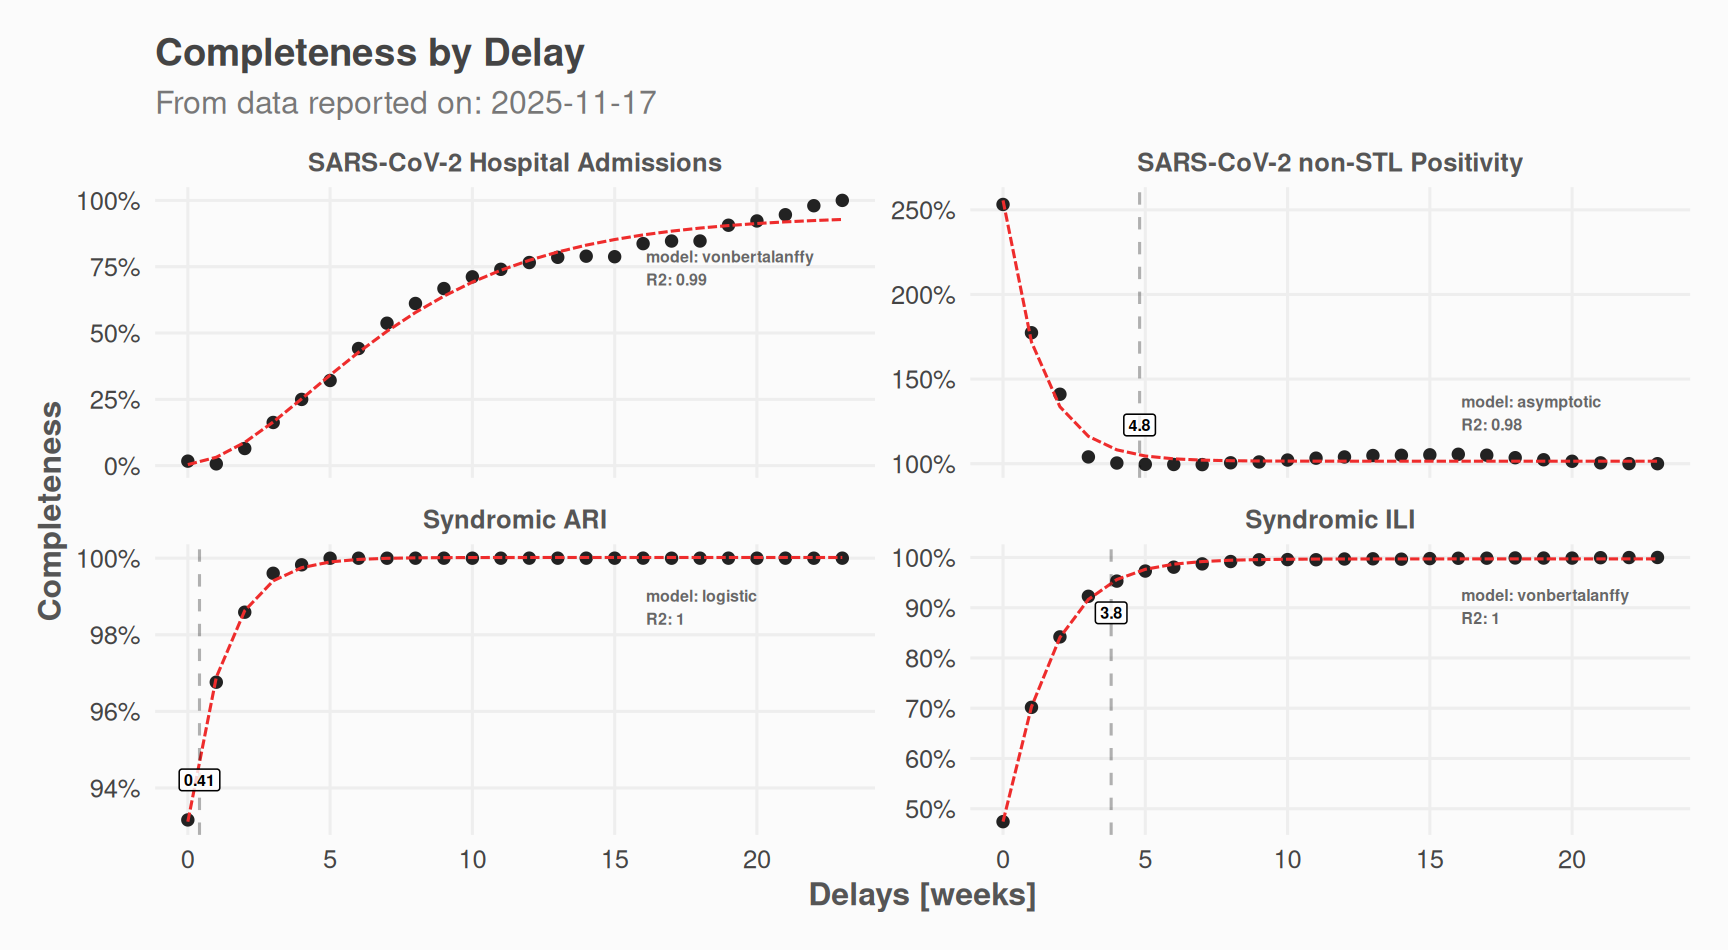
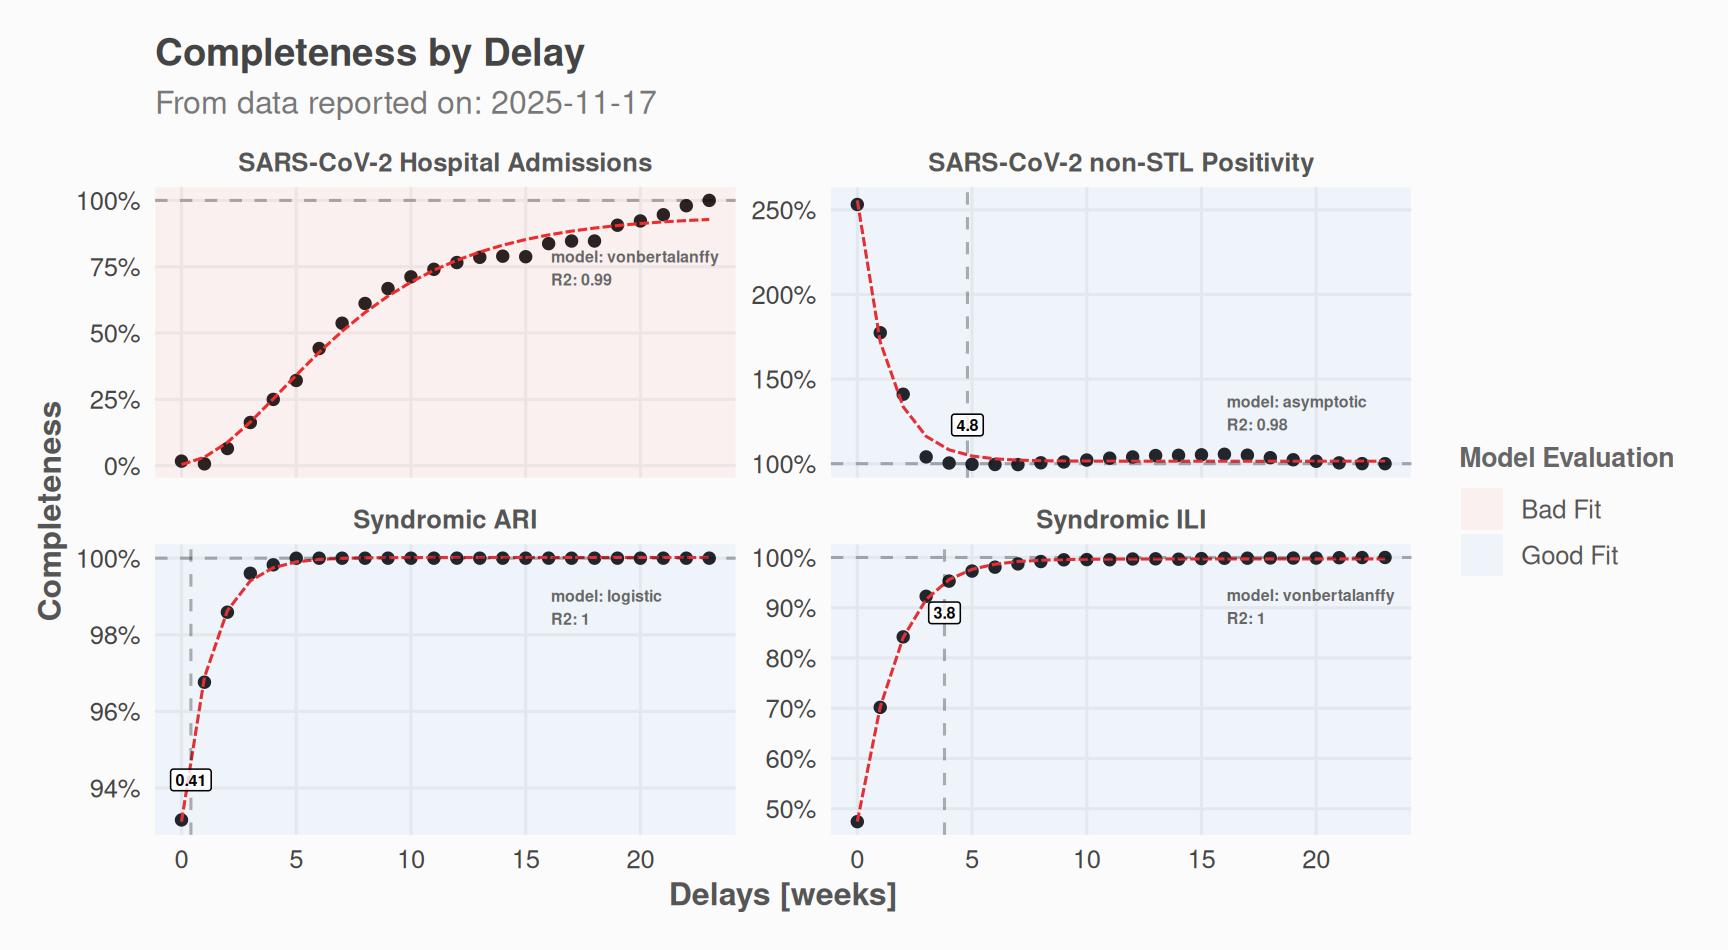
Deploying to gh-pages from @ whocov/nowcastr@6f3e32ffb888910af14f8f2c0a009b26895a6c31 🚀

diff --git a/reference/tbl_models_stats.html b/reference/tbl_models_stats.html
@@ -1,0 +1,108 @@
+<!DOCTYPE html>
+<!-- Generated by pkgdown: do not edit by hand --><html lang="en"><head><meta http-equiv="Content-Type" content="text/html; charset=UTF-8"><meta charset="utf-8"><meta http-equiv="X-UA-Compatible" content="IE=edge"><meta name="viewport" content="width=device-width, initial-scale=1, shrink-to-fit=no"><title>Compute table with models result stats. — tbl_models_stats • nowcastr</title><script src="../lightswitch.js"></script><script src="../deps/jquery-3.6.0/jquery-3.6.0.min.js"></script><meta name="viewport" content="width=device-width, initial-scale=1, shrink-to-fit=no"><link href="../deps/bootstrap-5.3.8/bootstrap.min.css" rel="stylesheet"><script src="../deps/bootstrap-5.3.8/bootstrap.bundle.min.js"></script><link href="../deps/font-awesome-6.5.2/css/all.min.css" rel="stylesheet"><link href="../deps/font-awesome-6.5.2/css/v4-shims.min.css" rel="stylesheet"><script src="../deps/headroom-0.11.0/headroom.min.js"></script><script src="../deps/headroom-0.11.0/jQuery.headroom.min.js"></script><script src="../deps/bootstrap-toc-1.0.1/bootstrap-toc.min.js"></script><script src="../deps/clipboard.js-2.0.11/clipboard.min.js"></script><script src="../deps/search-1.0.0/autocomplete.jquery.min.js"></script><script src="../deps/search-1.0.0/fuse.min.js"></script><script src="../deps/search-1.0.0/mark.min.js"></script><!-- pkgdown --><script src="../pkgdown.js"></script><meta property="og:title" content="Compute table with models result stats. — tbl_models_stats"><meta name="description" content="Summarizes fitted growth models per group, computing R-squared, fit
+evaluation (good/bad), and completeness at start/end of observed data."><meta property="og:description" content="Summarizes fitted growth models per group, computing R-squared, fit
+evaluation (good/bad), and completeness at start/end of observed data."></head><body>
+    <a href="#main" class="visually-hidden-focusable">Skip to contents</a>
+
+
+    <nav class="navbar navbar-expand-lg fixed-top " aria-label="Site navigation"><div class="container">
+
+    <a class="navbar-brand me-2" href="../index.html">nowcastr</a>
+
+    <small class="nav-text text-muted me-auto" data-bs-toggle="tooltip" data-bs-placement="bottom" title="">0.2.1</small>
+
+
+    <button class="navbar-toggler" type="button" data-bs-toggle="collapse" data-bs-target="#navbar" aria-controls="navbar" aria-expanded="false" aria-label="Toggle navigation">
+      <span class="navbar-toggler-icon"></span>
+    </button>
+
+    <div id="navbar" class="collapse navbar-collapse ms-3">
+      <ul class="navbar-nav me-auto"><li class="nav-item"><a class="nav-link" href="../articles/nowcastr.html">Get started</a></li>
+<li class="active nav-item"><a class="nav-link" href="../reference/index.html">Reference</a></li>
+<li class="nav-item dropdown">
+  <button class="nav-link dropdown-toggle" type="button" id="dropdown-articles" data-bs-toggle="dropdown" aria-expanded="false" aria-haspopup="true">Articles</button>
+  <ul class="dropdown-menu" aria-labelledby="dropdown-articles"><li><a class="dropdown-item" href="../articles/nowcastr.html">Getting started</a></li>
+    <li><a class="dropdown-item" href="../articles/eval.html">Evaluate accuracy</a></li>
+  </ul></li>
+<li class="nav-item"><a class="nav-link" href="../news/index.html">Changelog</a></li>
+      </ul><ul class="navbar-nav"><li class="nav-item"><form class="form-inline" role="search">
+ <input class="form-control" type="search" name="search-input" id="search-input" autocomplete="off" aria-label="Search site" placeholder="Search for" data-search-index="../search.json"></form></li>
+<li class="nav-item"><a class="external-link nav-link" href="https://github.com/whocov/nowcastr/" aria-label="GitHub"><span class="fa fab fa-github fa-lg"></span></a></li>
+<li class="nav-item dropdown">
+  <button class="nav-link dropdown-toggle" type="button" id="dropdown-lightswitch" data-bs-toggle="dropdown" aria-expanded="false" aria-haspopup="true" aria-label="Light switch"><span class="fa fa-sun"></span></button>
+  <ul class="dropdown-menu dropdown-menu-end" aria-labelledby="dropdown-lightswitch"><li><button class="dropdown-item" data-bs-theme-value="light"><span class="fa fa-sun"></span> Light</button></li>
+    <li><button class="dropdown-item" data-bs-theme-value="dark"><span class="fa fa-moon"></span> Dark</button></li>
+    <li><button class="dropdown-item" data-bs-theme-value="auto"><span class="fa fa-adjust"></span> Auto</button></li>
+  </ul></li>
+      </ul></div>
+
+
+  </div>
+</nav><div class="container template-reference-topic">
+<div class="row">
+  <main id="main" class="col-md-9"><div class="page-header">
+
+      <h1>Compute table with models result stats.</h1>
+      <small class="dont-index">Source: <a href="https://github.com/whocov/nowcastr/blob/main/R/tbl_models_stats.R" class="external-link"><code>R/tbl_models_stats.R</code></a></small>
+      <div class="d-none name"><code>tbl_models_stats.Rd</code></div>
+    </div>
+
+    <div class="ref-description section level2">
+    <p>Summarizes fitted growth models per group, computing R-squared, fit
+evaluation (good/bad), and completeness at start/end of observed data.</p>
+    </div>
+
+    <div class="section level2">
+    <h2 id="ref-usage">Usage<a class="anchor" aria-label="anchor" href="#ref-usage"></a></h2>
+    <div class="sourceCode"><pre class="sourceCode r"><code><span><span class="fu">tbl_models_stats</span><span class="op">(</span><span class="va">nc_obj</span>, thresholds_r2 <span class="op">=</span> <span class="fl">0.8</span><span class="op">)</span></span></code></pre></div>
+    </div>
+
+    <div class="section level2">
+    <h2 id="arguments">Arguments<a class="anchor" aria-label="anchor" href="#arguments"></a></h2>
+
+
+<dl><dt id="arg-nc-obj">nc_obj<a class="anchor" aria-label="anchor" href="#arg-nc-obj"></a></dt>
+<dd><p>A <code>nowcast_results</code> object.</p></dd>
+
+
+<dt id="arg-thresholds-r-">thresholds_r2<a class="anchor" aria-label="anchor" href="#arg-thresholds-r-"></a></dt>
+<dd><p>Numeric scalar. R-squared threshold above which
+(combined with end completeness near 1) a model is classified <code>"Good Fit"</code>.</p></dd>
+
+</dl></div>
+    <div class="section level2">
+    <h2 id="value">Value<a class="anchor" aria-label="anchor" href="#value"></a></h2>
+    <p>A tibble with one row per fitted model, including columns for
+group variables, <code>R2</code>, <code>RSS</code>, model coefficients (<code>a</code>, <code>b</code>, <code>c</code>),
+completeness at start/end, and <code>eval</code> ("Good Fit"/"Bad Fit"). If
+<code>nc_obj@models</code> has no rows, it is returned unchanged.</p>
+    </div>
+
+    <div class="section level2">
+    <h2 id="ref-examples">Examples<a class="anchor" aria-label="anchor" href="#ref-examples"></a></h2>
+    <div class="sourceCode"><pre class="sourceCode r"><code><span class="r-in"><span><span class="kw">if</span> <span class="op">(</span><span class="cn">FALSE</span><span class="op">)</span> <span class="op">{</span> <span class="co"># \dontrun{</span></span></span>
+<span class="r-in"><span><span class="fu">tbl_models_stats</span><span class="op">(</span><span class="va">nc_obj</span><span class="op">)</span></span></span>
+<span class="r-in"><span><span class="fu">tbl_models_stats</span><span class="op">(</span><span class="va">nc_obj</span>, thresholds_r2 <span class="op">=</span> <span class="fl">0.9</span><span class="op">)</span></span></span>
+<span class="r-in"><span><span class="op">}</span> <span class="co"># }</span></span></span>
+</code></pre></div>
+    </div>
+  </main><aside class="col-md-3"><nav id="toc" aria-label="Table of contents"><h2>On this page</h2>
+    </nav></aside></div>
+
+
+    <footer><div class="pkgdown-footer-left">
+  <p>Developed by Mathias Leroy, Finlay Campbell.</p>
+</div>
+
+<div class="pkgdown-footer-right">
+  <p>Site built with <a href="https://pkgdown.r-lib.org/" class="external-link">pkgdown</a> 2.2.0.</p>
+</div>
+
+    </footer></div>
+
+
+
+
+
+  </body></html>
+

diff --git a/articles/eval.html b/articles/eval.html
@@ -7,8 +7,8 @@
 <meta name="viewport" content="width=device-width, initial-scale=1, shrink-to-fit=no">
 <title>Evaluate accuracy • nowcastr</title>
 <script src="../lightswitch.js"></script><script src="../deps/jquery-3.6.0/jquery-3.6.0.min.js"></script><meta name="viewport" content="width=device-width, initial-scale=1, shrink-to-fit=no">
-<link href="../deps/bootstrap-5.3.1/bootstrap.min.css" rel="stylesheet">
-<script src="../deps/bootstrap-5.3.1/bootstrap.bundle.min.js"></script><link href="../deps/font-awesome-6.5.2/css/all.min.css" rel="stylesheet">
+<link href="../deps/bootstrap-5.3.8/bootstrap.min.css" rel="stylesheet">
+<script src="../deps/bootstrap-5.3.8/bootstrap.bundle.min.js"></script><link href="../deps/font-awesome-6.5.2/css/all.min.css" rel="stylesheet">
 <link href="../deps/font-awesome-6.5.2/css/v4-shims.min.css" rel="stylesheet">
 <script src="../deps/headroom-0.11.0/headroom.min.js"></script><script src="../deps/headroom-0.11.0/jQuery.headroom.min.js"></script><script src="../deps/bootstrap-toc-1.0.1/bootstrap-toc.min.js"></script><script src="../deps/clipboard.js-2.0.11/clipboard.min.js"></script><script src="../deps/search-1.0.0/autocomplete.jquery.min.js"></script><script src="../deps/search-1.0.0/fuse.min.js"></script><script src="../deps/search-1.0.0/mark.min.js"></script><script src="eval_files/libs/quarto-html/popper.min.js"></script><script src="eval_files/libs/quarto-html/tippy.umd.min.js"></script><link href="eval_files/libs/quarto-html/tippy.css" rel="stylesheet">
 <link href="eval_files/libs/quarto-html/light-border.css" rel="stylesheet">
@@ -22,7 +22,7 @@
 
     <a class="navbar-brand me-2" href="../index.html">nowcastr</a>
 
-    <small class="nav-text text-muted me-auto" data-bs-toggle="tooltip" data-bs-placement="bottom" title="">0.2.1.9000</small>
+    <small class="nav-text text-muted me-auto" data-bs-toggle="tooltip" data-bs-placement="bottom" title="">0.2.1</small>
 
 
     <button class="navbar-toggler" type="button" data-bs-toggle="collapse" data-bs-target="#navbar" aria-controls="navbar" aria-expanded="false" aria-label="Toggle navigation">
@@ -197,10 +197,10 @@
 </div>
 </div>
 </div>
-</section></section><section class="level2"><h2 id="evaluate-scenarios">Evaluate Scenarios<a class="anchor" aria-label="anchor" href="#evaluate-scenarios"></a>
+</section></section><section class="level2"><h2 id="examples-evaluate-scenarios">Examples: Evaluate Scenarios<a class="anchor" aria-label="anchor" href="#examples-evaluate-scenarios"></a>
 </h2>
-</section><section class="level2"><h2 id="vary-fill_future_reported_values">Vary fill_future_reported_values<a class="anchor" aria-label="anchor" href="#vary-fill_future_reported_values"></a>
-</h2>
+<section class="level3"><h3 id="example-1-vary-fill_future_reported_values">Example 1: Vary fill_future_reported_values<a class="anchor" aria-label="anchor" href="#example-1-vary-fill_future_reported_values"></a>
+</h3>
 <p>We can test if accuracy of nowcasts improve with or without <code><a href="../reference/fill_future_reported_values.html">fill_future_reported_values()</a></code>:</p>
 <div class="cell">
 <div class="sourceCode cell-code" id="cb6"><pre class="downlit sourceCode r">
@@ -282,7 +282,7 @@
 </div>
 </div>
 </div>
-<section class="level3"><h3 id="vary-max_reportunits">Vary max_reportunits<a class="anchor" aria-label="anchor" href="#vary-max_reportunits"></a>
+</section><section class="level3"><h3 id="example-2-vary-max_reportunits">Example 2: Vary max_reportunits<a class="anchor" aria-label="anchor" href="#example-2-vary-max_reportunits"></a>
 </h3>
 <div class="cell">
 <div class="sourceCode cell-code" id="cb9"><pre class="downlit sourceCode r">

diff --git a/reference/index.html b/reference/index.html
@@ -1,5 +1,5 @@
 <!DOCTYPE html>
-<!-- Generated by pkgdown: do not edit by hand --><html lang="en"><head><meta http-equiv="Content-Type" content="text/html; charset=UTF-8"><meta charset="utf-8"><meta http-equiv="X-UA-Compatible" content="IE=edge"><meta name="viewport" content="width=device-width, initial-scale=1, shrink-to-fit=no"><title>Package index • nowcastr</title><script src="../lightswitch.js"></script><script src="../deps/jquery-3.6.0/jquery-3.6.0.min.js"></script><meta name="viewport" content="width=device-width, initial-scale=1, shrink-to-fit=no"><link href="../deps/bootstrap-5.3.1/bootstrap.min.css" rel="stylesheet"><script src="../deps/bootstrap-5.3.1/bootstrap.bundle.min.js"></script><link href="../deps/font-awesome-6.5.2/css/all.min.css" rel="stylesheet"><link href="../deps/font-awesome-6.5.2/css/v4-shims.min.css" rel="stylesheet"><script src="../deps/headroom-0.11.0/headroom.min.js"></script><script src="../deps/headroom-0.11.0/jQuery.headroom.min.js"></script><script src="../deps/bootstrap-toc-1.0.1/bootstrap-toc.min.js"></script><script src="../deps/clipboard.js-2.0.11/clipboard.min.js"></script><script src="../deps/search-1.0.0/autocomplete.jquery.min.js"></script><script src="../deps/search-1.0.0/fuse.min.js"></script><script src="../deps/search-1.0.0/mark.min.js"></script><!-- pkgdown --><script src="../pkgdown.js"></script><meta property="og:title" content="Package index"></head><body>
+<!-- Generated by pkgdown: do not edit by hand --><html lang="en"><head><meta http-equiv="Content-Type" content="text/html; charset=UTF-8"><meta charset="utf-8"><meta http-equiv="X-UA-Compatible" content="IE=edge"><meta name="viewport" content="width=device-width, initial-scale=1, shrink-to-fit=no"><title>Package index • nowcastr</title><script src="../lightswitch.js"></script><script src="../deps/jquery-3.6.0/jquery-3.6.0.min.js"></script><meta name="viewport" content="width=device-width, initial-scale=1, shrink-to-fit=no"><link href="../deps/bootstrap-5.3.8/bootstrap.min.css" rel="stylesheet"><script src="../deps/bootstrap-5.3.8/bootstrap.bundle.min.js"></script><link href="../deps/font-awesome-6.5.2/css/all.min.css" rel="stylesheet"><link href="../deps/font-awesome-6.5.2/css/v4-shims.min.css" rel="stylesheet"><script src="../deps/headroom-0.11.0/headroom.min.js"></script><script src="../deps/headroom-0.11.0/jQuery.headroom.min.js"></script><script src="../deps/bootstrap-toc-1.0.1/bootstrap-toc.min.js"></script><script src="../deps/clipboard.js-2.0.11/clipboard.min.js"></script><script src="../deps/search-1.0.0/autocomplete.jquery.min.js"></script><script src="../deps/search-1.0.0/fuse.min.js"></script><script src="../deps/search-1.0.0/mark.min.js"></script><!-- pkgdown --><script src="../pkgdown.js"></script><meta property="og:title" content="Package index"></head><body>
     <a href="#main" class="visually-hidden-focusable">Skip to contents</a>
 
 
@@ -7,7 +7,7 @@
 
     <a class="navbar-brand me-2" href="../index.html">nowcastr</a>
 
-    <small class="nav-text text-muted me-auto" data-bs-toggle="tooltip" data-bs-placement="bottom" title="">0.2.1.9000</small>
+    <small class="nav-text text-muted me-auto" data-bs-toggle="tooltip" data-bs-placement="bottom" title="">0.2.1</small>
 
 
     <button class="navbar-toggler" type="button" data-bs-toggle="collapse" data-bs-target="#navbar" aria-controls="navbar" aria-expanded="false" aria-label="Toggle navigation">
@@ -110,6 +110,13 @@
 
         </dt>
         <dd>Nowcastr ggplot2 Theme</dd>
+
+        <dt>
+
+          <code><a href="tbl_models_stats.html">tbl_models_stats()</a></code>
+
+        </dt>
+        <dd>Compute table with models result stats.</dd>
       </dl></div><div class="section level2">
       <h2 id="evaluation">Evaluation<a class="anchor" aria-label="anchor" href="#evaluation"></a></h2>
 

diff --git a/reference/nowcast_eval.html b/reference/nowcast_eval.html
@@ -1,5 +1,5 @@
 <!DOCTYPE html>
-<!-- Generated by pkgdown: do not edit by hand --><html lang="en"><head><meta http-equiv="Content-Type" content="text/html; charset=UTF-8"><meta charset="utf-8"><meta http-equiv="X-UA-Compatible" content="IE=edge"><meta name="viewport" content="width=device-width, initial-scale=1, shrink-to-fit=no"><title>Evaluate Nowcasting Performance — nowcast_eval • nowcastr</title><script src="../lightswitch.js"></script><script src="../deps/jquery-3.6.0/jquery-3.6.0.min.js"></script><meta name="viewport" content="width=device-width, initial-scale=1, shrink-to-fit=no"><link href="../deps/bootstrap-5.3.1/bootstrap.min.css" rel="stylesheet"><script src="../deps/bootstrap-5.3.1/bootstrap.bundle.min.js"></script><link href="../deps/font-awesome-6.5.2/css/all.min.css" rel="stylesheet"><link href="../deps/font-awesome-6.5.2/css/v4-shims.min.css" rel="stylesheet"><script src="../deps/headroom-0.11.0/headroom.min.js"></script><script src="../deps/headroom-0.11.0/jQuery.headroom.min.js"></script><script src="../deps/bootstrap-toc-1.0.1/bootstrap-toc.min.js"></script><script src="../deps/clipboard.js-2.0.11/clipboard.min.js"></script><script src="../deps/search-1.0.0/autocomplete.jquery.min.js"></script><script src="../deps/search-1.0.0/fuse.min.js"></script><script src="../deps/search-1.0.0/mark.min.js"></script><!-- pkgdown --><script src="../pkgdown.js"></script><meta property="og:title" content="Evaluate Nowcasting Performance — nowcast_eval"><meta name="description" content="Evaluates the historical performance of nowcast_cl() by repeatedly
+<!-- Generated by pkgdown: do not edit by hand --><html lang="en"><head><meta http-equiv="Content-Type" content="text/html; charset=UTF-8"><meta charset="utf-8"><meta http-equiv="X-UA-Compatible" content="IE=edge"><meta name="viewport" content="width=device-width, initial-scale=1, shrink-to-fit=no"><title>Evaluate Nowcasting Performance — nowcast_eval • nowcastr</title><script src="../lightswitch.js"></script><script src="../deps/jquery-3.6.0/jquery-3.6.0.min.js"></script><meta name="viewport" content="width=device-width, initial-scale=1, shrink-to-fit=no"><link href="../deps/bootstrap-5.3.8/bootstrap.min.css" rel="stylesheet"><script src="../deps/bootstrap-5.3.8/bootstrap.bundle.min.js"></script><link href="../deps/font-awesome-6.5.2/css/all.min.css" rel="stylesheet"><link href="../deps/font-awesome-6.5.2/css/v4-shims.min.css" rel="stylesheet"><script src="../deps/headroom-0.11.0/headroom.min.js"></script><script src="../deps/headroom-0.11.0/jQuery.headroom.min.js"></script><script src="../deps/bootstrap-toc-1.0.1/bootstrap-toc.min.js"></script><script src="../deps/clipboard.js-2.0.11/clipboard.min.js"></script><script src="../deps/search-1.0.0/autocomplete.jquery.min.js"></script><script src="../deps/search-1.0.0/fuse.min.js"></script><script src="../deps/search-1.0.0/mark.min.js"></script><!-- pkgdown --><script src="../pkgdown.js"></script><meta property="og:title" content="Evaluate Nowcasting Performance — nowcast_eval"><meta name="description" content="Evaluates the historical performance of nowcast_cl() by repeatedly
 peeling back the most recent reporting period and comparing predictions
 against the last reported values (highest col_date_reporting
 per occurrence date)."><meta property="og:description" content="Evaluates the historical performance of nowcast_cl() by repeatedly
@@ -13,7 +13,7 @@ per occurrence date)."></head><body>
 
     <a class="navbar-brand me-2" href="../index.html">nowcastr</a>
 
-    <small class="nav-text text-muted me-auto" data-bs-toggle="tooltip" data-bs-placement="bottom" title="">0.2.1.9000</small>
+    <small class="nav-text text-muted me-auto" data-bs-toggle="tooltip" data-bs-placement="bottom" title="">0.2.1</small>
 
 
     <button class="navbar-toggler" type="button" data-bs-toggle="collapse" data-bs-target="#navbar" aria-controls="navbar" aria-expanded="false" aria-label="Toggle navigation">
@@ -78,7 +78,8 @@ per occurrence date).</p>
 <span>  model_names <span class="op">=</span> <span class="fu"><a href="https://rdrr.io/r/base/c.html" class="external-link">c</a></span><span class="op">(</span><span class="st">"monomolecular"</span>, <span class="st">"vonbertalanffy"</span>, <span class="st">"logistic"</span>, <span class="st">"gompertz"</span>,</span>
 <span>    <span class="st">"asymptotic"</span>, <span class="st">"linear"</span><span class="op">)</span>,</span>
 <span>  do_use_modelled_completeness <span class="op">=</span> <span class="cn">TRUE</span>,</span>
-<span>  rss_threshold <span class="op">=</span> <span class="fl">0.01</span></span>
+<span>  rss_threshold <span class="op">=</span> <span class="fl">0.01</span>,</span>
+<span>  show_cli_progress_bar <span class="op">=</span> <span class="cn">FALSE</span></span>
 <span><span class="op">)</span></span></code></pre></div>
     </div>
 
@@ -161,6 +162,10 @@ Boolean or NULL (for auto selective).  (unused if do_model_fitting=FALSE)</p></d
 <dd><p>Minimum RSS threshold to use model-fitted values.
 Only used if do_use_modelled_completeness is NULL.
 If the RSS of the fit is higher than this then observed completeness is used for nowcasting.</p></dd>
+
+
+<dt id="arg-show-cli-progress-bar">show_cli_progress_bar<a class="anchor" aria-label="anchor" href="#arg-show-cli-progress-bar"></a></dt>
+<dd><p>Logical. Should a progress bar be shown? (using cli package)</p></dd>
 
 </dl></div>
     <div class="section level2">

diff --git a/authors.html b/authors.html
@@ -1,5 +1,5 @@
 <!DOCTYPE html>
-<!-- Generated by pkgdown: do not edit by hand --><html lang="en"><head><meta http-equiv="Content-Type" content="text/html; charset=UTF-8"><meta charset="utf-8"><meta http-equiv="X-UA-Compatible" content="IE=edge"><meta name="viewport" content="width=device-width, initial-scale=1, shrink-to-fit=no"><title>Authors and Citation • nowcastr</title><script src="lightswitch.js"></script><script src="deps/jquery-3.6.0/jquery-3.6.0.min.js"></script><meta name="viewport" content="width=device-width, initial-scale=1, shrink-to-fit=no"><link href="deps/bootstrap-5.3.1/bootstrap.min.css" rel="stylesheet"><script src="deps/bootstrap-5.3.1/bootstrap.bundle.min.js"></script><link href="deps/font-awesome-6.5.2/css/all.min.css" rel="stylesheet"><link href="deps/font-awesome-6.5.2/css/v4-shims.min.css" rel="stylesheet"><script src="deps/headroom-0.11.0/headroom.min.js"></script><script src="deps/headroom-0.11.0/jQuery.headroom.min.js"></script><script src="deps/bootstrap-toc-1.0.1/bootstrap-toc.min.js"></script><script src="deps/clipboard.js-2.0.11/clipboard.min.js"></script><script src="deps/search-1.0.0/autocomplete.jquery.min.js"></script><script src="deps/search-1.0.0/fuse.min.js"></script><script src="deps/search-1.0.0/mark.min.js"></script><!-- pkgdown --><script src="pkgdown.js"></script><meta property="og:title" content="Authors and Citation"></head><body>
+<!-- Generated by pkgdown: do not edit by hand --><html lang="en"><head><meta http-equiv="Content-Type" content="text/html; charset=UTF-8"><meta charset="utf-8"><meta http-equiv="X-UA-Compatible" content="IE=edge"><meta name="viewport" content="width=device-width, initial-scale=1, shrink-to-fit=no"><title>Authors and Citation • nowcastr</title><script src="lightswitch.js"></script><script src="deps/jquery-3.6.0/jquery-3.6.0.min.js"></script><meta name="viewport" content="width=device-width, initial-scale=1, shrink-to-fit=no"><link href="deps/bootstrap-5.3.8/bootstrap.min.css" rel="stylesheet"><script src="deps/bootstrap-5.3.8/bootstrap.bundle.min.js"></script><link href="deps/font-awesome-6.5.2/css/all.min.css" rel="stylesheet"><link href="deps/font-awesome-6.5.2/css/v4-shims.min.css" rel="stylesheet"><script src="deps/headroom-0.11.0/headroom.min.js"></script><script src="deps/headroom-0.11.0/jQuery.headroom.min.js"></script><script src="deps/bootstrap-toc-1.0.1/bootstrap-toc.min.js"></script><script src="deps/clipboard.js-2.0.11/clipboard.min.js"></script><script src="deps/search-1.0.0/autocomplete.jquery.min.js"></script><script src="deps/search-1.0.0/fuse.min.js"></script><script src="deps/search-1.0.0/mark.min.js"></script><!-- pkgdown --><script src="pkgdown.js"></script><meta property="og:title" content="Authors and Citation"></head><body>
     <a href="#main" class="visually-hidden-focusable">Skip to contents</a>
 
 
@@ -7,7 +7,7 @@
 
     <a class="navbar-brand me-2" href="index.html">nowcastr</a>
 
-    <small class="nav-text text-muted me-auto" data-bs-toggle="tooltip" data-bs-placement="bottom" title="">0.2.1.9000</small>
+    <small class="nav-text text-muted me-auto" data-bs-toggle="tooltip" data-bs-placement="bottom" title="">0.2.1</small>
 
 
     <button class="navbar-toggler" type="button" data-bs-toggle="collapse" data-bs-target="#navbar" aria-controls="navbar" aria-expanded="false" aria-label="Toggle navigation">
@@ -62,13 +62,13 @@
 
       <p>Leroy M, Campbell F (2026).
 <em>nowcastr: Nowcasting with Chain-Ladder Method</em>.
-R package version 0.2.1.9000, <a href="https://github.com/whocov/nowcastr" class="external-link">https://github.com/whocov/nowcastr</a>.
+R package version 0.2.1, <a href="https://github.com/whocov/nowcastr" class="external-link">https://github.com/whocov/nowcastr</a>.
 </p>
       <pre>@Manual{,
   title = {nowcastr: Nowcasting with Chain-Ladder Method},
   author = {Mathias Leroy and Finlay Campbell},
   year = {2026},
-  note = {R package version 0.2.1.9000},
+  note = {R package version 0.2.1},
   url = {https://github.com/whocov/nowcastr},
 }</pre>
     </div>

diff --git a/404.html b/404.html
@@ -7,8 +7,8 @@
 <meta name="viewport" content="width=device-width, initial-scale=1, shrink-to-fit=no">
 <title>Page not found (404) • nowcastr</title>
 <script src="https://whocov.github.io/nowcastr/lightswitch.js"></script><script src="https://whocov.github.io/nowcastr/deps/jquery-3.6.0/jquery-3.6.0.min.js"></script><meta name="viewport" content="width=device-width, initial-scale=1, shrink-to-fit=no">
-<link href="https://whocov.github.io/nowcastr/deps/bootstrap-5.3.1/bootstrap.min.css" rel="stylesheet">
-<script src="https://whocov.github.io/nowcastr/deps/bootstrap-5.3.1/bootstrap.bundle.min.js"></script><link href="https://whocov.github.io/nowcastr/deps/font-awesome-6.5.2/css/all.min.css" rel="stylesheet">
+<link href="https://whocov.github.io/nowcastr/deps/bootstrap-5.3.8/bootstrap.min.css" rel="stylesheet">
+<script src="https://whocov.github.io/nowcastr/deps/bootstrap-5.3.8/bootstrap.bundle.min.js"></script><link href="https://whocov.github.io/nowcastr/deps/font-awesome-6.5.2/css/all.min.css" rel="stylesheet">
 <link href="https://whocov.github.io/nowcastr/deps/font-awesome-6.5.2/css/v4-shims.min.css" rel="stylesheet">
 <script src="https://whocov.github.io/nowcastr/deps/headroom-0.11.0/headroom.min.js"></script><script src="https://whocov.github.io/nowcastr/deps/headroom-0.11.0/jQuery.headroom.min.js"></script><script src="https://whocov.github.io/nowcastr/deps/bootstrap-toc-1.0.1/bootstrap-toc.min.js"></script><script src="https://whocov.github.io/nowcastr/deps/clipboard.js-2.0.11/clipboard.min.js"></script><script src="https://whocov.github.io/nowcastr/deps/search-1.0.0/autocomplete.jquery.min.js"></script><script src="https://whocov.github.io/nowcastr/deps/search-1.0.0/fuse.min.js"></script><script src="https://whocov.github.io/nowcastr/deps/search-1.0.0/mark.min.js"></script><!-- pkgdown --><script src="https://whocov.github.io/nowcastr/pkgdown.js"></script><meta property="og:title" content="Page not found (404)">
 </head>
@@ -20,7 +20,7 @@
 
     <a class="navbar-brand me-2" href="https://whocov.github.io/nowcastr/index.html">nowcastr</a>
 
-    <small class="nav-text text-muted me-auto" data-bs-toggle="tooltip" data-bs-placement="bottom" title="">0.2.1.9000</small>
+    <small class="nav-text text-muted me-auto" data-bs-toggle="tooltip" data-bs-placement="bottom" title="">0.2.1</small>
 
 
     <button class="navbar-toggler" type="button" data-bs-toggle="collapse" data-bs-target="#navbar" aria-controls="navbar" aria-expanded="false" aria-label="Toggle navigation">

diff --git a/articles/nowcastr.html b/articles/nowcastr.html
@@ -7,8 +7,8 @@
 <meta name="viewport" content="width=device-width, initial-scale=1, shrink-to-fit=no">
 <title>Getting started • nowcastr</title>
 <script src="../lightswitch.js"></script><script src="../deps/jquery-3.6.0/jquery-3.6.0.min.js"></script><meta name="viewport" content="width=device-width, initial-scale=1, shrink-to-fit=no">
-<link href="../deps/bootstrap-5.3.1/bootstrap.min.css" rel="stylesheet">
-<script src="../deps/bootstrap-5.3.1/bootstrap.bundle.min.js"></script><link href="../deps/font-awesome-6.5.2/css/all.min.css" rel="stylesheet">
+<link href="../deps/bootstrap-5.3.8/bootstrap.min.css" rel="stylesheet">
+<script src="../deps/bootstrap-5.3.8/bootstrap.bundle.min.js"></script><link href="../deps/font-awesome-6.5.2/css/all.min.css" rel="stylesheet">
 <link href="../deps/font-awesome-6.5.2/css/v4-shims.min.css" rel="stylesheet">
 <script src="../deps/headroom-0.11.0/headroom.min.js"></script><script src="../deps/headroom-0.11.0/jQuery.headroom.min.js"></script><script src="../deps/bootstrap-toc-1.0.1/bootstrap-toc.min.js"></script><script src="../deps/clipboard.js-2.0.11/clipboard.min.js"></script><script src="../deps/search-1.0.0/autocomplete.jquery.min.js"></script><script src="../deps/search-1.0.0/fuse.min.js"></script><script src="../deps/search-1.0.0/mark.min.js"></script><script src="nowcastr_files/libs/quarto-html/popper.min.js"></script><script src="nowcastr_files/libs/quarto-html/tippy.umd.min.js"></script><link href="nowcastr_files/libs/quarto-html/tippy.css" rel="stylesheet">
 <link href="nowcastr_files/libs/quarto-html/light-border.css" rel="stylesheet">
@@ -22,7 +22,7 @@
 
     <a class="navbar-brand me-2" href="../index.html">nowcastr</a>
 
-    <small class="nav-text text-muted me-auto" data-bs-toggle="tooltip" data-bs-placement="bottom" title="">0.2.1.9000</small>
+    <small class="nav-text text-muted me-auto" data-bs-toggle="tooltip" data-bs-placement="bottom" title="">0.2.1</small>
 
 
     <button class="navbar-toggler" type="button" data-bs-toggle="collapse" data-bs-target="#navbar" aria-controls="navbar" aria-expanded="false" aria-label="Toggle navigation">

diff --git a/index.html b/index.html
@@ -7,8 +7,8 @@
 <meta name="viewport" content="width=device-width, initial-scale=1, shrink-to-fit=no">
 <title>Nowcasting with Chain-Ladder Method • nowcastr</title>
 <script src="lightswitch.js"></script><script src="deps/jquery-3.6.0/jquery-3.6.0.min.js"></script><meta name="viewport" content="width=device-width, initial-scale=1, shrink-to-fit=no">
-<link href="deps/bootstrap-5.3.1/bootstrap.min.css" rel="stylesheet">
-<script src="deps/bootstrap-5.3.1/bootstrap.bundle.min.js"></script><link href="deps/font-awesome-6.5.2/css/all.min.css" rel="stylesheet">
+<link href="deps/bootstrap-5.3.8/bootstrap.min.css" rel="stylesheet">
+<script src="deps/bootstrap-5.3.8/bootstrap.bundle.min.js"></script><link href="deps/font-awesome-6.5.2/css/all.min.css" rel="stylesheet">
 <link href="deps/font-awesome-6.5.2/css/v4-shims.min.css" rel="stylesheet">
 <script src="deps/headroom-0.11.0/headroom.min.js"></script><script src="deps/headroom-0.11.0/jQuery.headroom.min.js"></script><script src="deps/bootstrap-toc-1.0.1/bootstrap-toc.min.js"></script><script src="deps/clipboard.js-2.0.11/clipboard.min.js"></script><script src="deps/search-1.0.0/autocomplete.jquery.min.js"></script><script src="deps/search-1.0.0/fuse.min.js"></script><script src="deps/search-1.0.0/mark.min.js"></script><!-- pkgdown --><script src="pkgdown.js"></script><meta property="og:title" content="Nowcasting with Chain-Ladder Method">
 <meta name="description" content="Nowcasting using the Chain-Ladder method. Supports both non-cumulative delay-based estimation and model-based completeness fitting (e.g., using logistic or Gompertz curves) to predict final counts from partially reported data.">
@@ -22,7 +22,7 @@
 
     <a class="navbar-brand me-2" href="index.html">nowcastr</a>
 
-    <small class="nav-text text-muted me-auto" data-bs-toggle="tooltip" data-bs-placement="bottom" title="">0.2.1.9000</small>
+    <small class="nav-text text-muted me-auto" data-bs-toggle="tooltip" data-bs-placement="bottom" title="">0.2.1</small>
 
 
     <button class="navbar-toggler" type="button" data-bs-toggle="collapse" data-bs-target="#navbar" aria-controls="navbar" aria-expanded="false" aria-label="Toggle navigation">

diff --git a/news/index.html b/news/index.html
@@ -1,5 +1,5 @@
 <!DOCTYPE html>
-<!-- Generated by pkgdown: do not edit by hand --><html lang="en"><head><meta http-equiv="Content-Type" content="text/html; charset=UTF-8"><meta charset="utf-8"><meta http-equiv="X-UA-Compatible" content="IE=edge"><meta name="viewport" content="width=device-width, initial-scale=1, shrink-to-fit=no"><title>Changelog • nowcastr</title><script src="../lightswitch.js"></script><script src="../deps/jquery-3.6.0/jquery-3.6.0.min.js"></script><meta name="viewport" content="width=device-width, initial-scale=1, shrink-to-fit=no"><link href="../deps/bootstrap-5.3.1/bootstrap.min.css" rel="stylesheet"><script src="../deps/bootstrap-5.3.1/bootstrap.bundle.min.js"></script><link href="../deps/font-awesome-6.5.2/css/all.min.css" rel="stylesheet"><link href="../deps/font-awesome-6.5.2/css/v4-shims.min.css" rel="stylesheet"><script src="../deps/headroom-0.11.0/headroom.min.js"></script><script src="../deps/headroom-0.11.0/jQuery.headroom.min.js"></script><script src="../deps/bootstrap-toc-1.0.1/bootstrap-toc.min.js"></script><script src="../deps/clipboard.js-2.0.11/clipboard.min.js"></script><script src="../deps/search-1.0.0/autocomplete.jquery.min.js"></script><script src="../deps/search-1.0.0/fuse.min.js"></script><script src="../deps/search-1.0.0/mark.min.js"></script><!-- pkgdown --><script src="../pkgdown.js"></script><meta property="og:title" content="Changelog"></head><body>
+<!-- Generated by pkgdown: do not edit by hand --><html lang="en"><head><meta http-equiv="Content-Type" content="text/html; charset=UTF-8"><meta charset="utf-8"><meta http-equiv="X-UA-Compatible" content="IE=edge"><meta name="viewport" content="width=device-width, initial-scale=1, shrink-to-fit=no"><title>Changelog • nowcastr</title><script src="../lightswitch.js"></script><script src="../deps/jquery-3.6.0/jquery-3.6.0.min.js"></script><meta name="viewport" content="width=device-width, initial-scale=1, shrink-to-fit=no"><link href="../deps/bootstrap-5.3.8/bootstrap.min.css" rel="stylesheet"><script src="../deps/bootstrap-5.3.8/bootstrap.bundle.min.js"></script><link href="../deps/font-awesome-6.5.2/css/all.min.css" rel="stylesheet"><link href="../deps/font-awesome-6.5.2/css/v4-shims.min.css" rel="stylesheet"><script src="../deps/headroom-0.11.0/headroom.min.js"></script><script src="../deps/headroom-0.11.0/jQuery.headroom.min.js"></script><script src="../deps/bootstrap-toc-1.0.1/bootstrap-toc.min.js"></script><script src="../deps/clipboard.js-2.0.11/clipboard.min.js"></script><script src="../deps/search-1.0.0/autocomplete.jquery.min.js"></script><script src="../deps/search-1.0.0/fuse.min.js"></script><script src="../deps/search-1.0.0/mark.min.js"></script><!-- pkgdown --><script src="../pkgdown.js"></script><meta property="og:title" content="Changelog"></head><body>
     <a href="#main" class="visually-hidden-focusable">Skip to contents</a>
 
 
@@ -7,7 +7,7 @@
 
     <a class="navbar-brand me-2" href="../index.html">nowcastr</a>
 
-    <small class="nav-text text-muted me-auto" data-bs-toggle="tooltip" data-bs-placement="bottom" title="">0.2.1.9000</small>
+    <small class="nav-text text-muted me-auto" data-bs-toggle="tooltip" data-bs-placement="bottom" title="">0.2.1</small>
 
 
     <button class="navbar-toggler" type="button" data-bs-toggle="collapse" data-bs-target="#navbar" aria-controls="navbar" aria-expanded="false" aria-label="Toggle navigation">
@@ -51,6 +51,7 @@
 <li>[refactor] remove 2 internal plot functions from exports</li>
 <li>[bugfix] r squared calculation with na.rm in plot delays <!-- added `rm.na=T` in ss_tot calculation  -->
 </li>
+<li>[refactor] Add good fit/bad fit color to delays and results plots.</li>
 </ul></div>
     <div class="section level2">
 <h2 class="pkg-version" data-toc-text="0.2.0" id="nowcastr-020">nowcastr 0.2.0<a class="anchor" aria-label="anchor" href="#nowcastr-020"></a></h2><p class="text-muted">CRAN release: 2026-04-16</p>

diff --git a/LICENSE-text.html b/LICENSE-text.html
@@ -1,5 +1,5 @@
 <!DOCTYPE html>
-<!-- Generated by pkgdown: do not edit by hand --><html lang="en"><head><meta http-equiv="Content-Type" content="text/html; charset=UTF-8"><meta charset="utf-8"><meta http-equiv="X-UA-Compatible" content="IE=edge"><meta name="viewport" content="width=device-width, initial-scale=1, shrink-to-fit=no"><title>License • nowcastr</title><script src="lightswitch.js"></script><script src="deps/jquery-3.6.0/jquery-3.6.0.min.js"></script><meta name="viewport" content="width=device-width, initial-scale=1, shrink-to-fit=no"><link href="deps/bootstrap-5.3.1/bootstrap.min.css" rel="stylesheet"><script src="deps/bootstrap-5.3.1/bootstrap.bundle.min.js"></script><link href="deps/font-awesome-6.5.2/css/all.min.css" rel="stylesheet"><link href="deps/font-awesome-6.5.2/css/v4-shims.min.css" rel="stylesheet"><script src="deps/headroom-0.11.0/headroom.min.js"></script><script src="deps/headroom-0.11.0/jQuery.headroom.min.js"></script><script src="deps/bootstrap-toc-1.0.1/bootstrap-toc.min.js"></script><script src="deps/clipboard.js-2.0.11/clipboard.min.js"></script><script src="deps/search-1.0.0/autocomplete.jquery.min.js"></script><script src="deps/search-1.0.0/fuse.min.js"></script><script src="deps/search-1.0.0/mark.min.js"></script><!-- pkgdown --><script src="pkgdown.js"></script><meta property="og:title" content="License"></head><body>
+<!-- Generated by pkgdown: do not edit by hand --><html lang="en"><head><meta http-equiv="Content-Type" content="text/html; charset=UTF-8"><meta charset="utf-8"><meta http-equiv="X-UA-Compatible" content="IE=edge"><meta name="viewport" content="width=device-width, initial-scale=1, shrink-to-fit=no"><title>License • nowcastr</title><script src="lightswitch.js"></script><script src="deps/jquery-3.6.0/jquery-3.6.0.min.js"></script><meta name="viewport" content="width=device-width, initial-scale=1, shrink-to-fit=no"><link href="deps/bootstrap-5.3.8/bootstrap.min.css" rel="stylesheet"><script src="deps/bootstrap-5.3.8/bootstrap.bundle.min.js"></script><link href="deps/font-awesome-6.5.2/css/all.min.css" rel="stylesheet"><link href="deps/font-awesome-6.5.2/css/v4-shims.min.css" rel="stylesheet"><script src="deps/headroom-0.11.0/headroom.min.js"></script><script src="deps/headroom-0.11.0/jQuery.headroom.min.js"></script><script src="deps/bootstrap-toc-1.0.1/bootstrap-toc.min.js"></script><script src="deps/clipboard.js-2.0.11/clipboard.min.js"></script><script src="deps/search-1.0.0/autocomplete.jquery.min.js"></script><script src="deps/search-1.0.0/fuse.min.js"></script><script src="deps/search-1.0.0/mark.min.js"></script><!-- pkgdown --><script src="pkgdown.js"></script><meta property="og:title" content="License"></head><body>
     <a href="#main" class="visually-hidden-focusable">Skip to contents</a>
 
 
@@ -7,7 +7,7 @@
 
     <a class="navbar-brand me-2" href="index.html">nowcastr</a>
 
-    <small class="nav-text text-muted me-auto" data-bs-toggle="tooltip" data-bs-placement="bottom" title="">0.2.1.9000</small>
+    <small class="nav-text text-muted me-auto" data-bs-toggle="tooltip" data-bs-placement="bottom" title="">0.2.1</small>
 
 
     <button class="navbar-toggler" type="button" data-bs-toggle="collapse" data-bs-target="#navbar" aria-controls="navbar" aria-expanded="false" aria-label="Toggle navigation">

diff --git a/LICENSE.html b/LICENSE.html
@@ -1,5 +1,5 @@
 <!DOCTYPE html>
-<!-- Generated by pkgdown: do not edit by hand --><html lang="en"><head><meta http-equiv="Content-Type" content="text/html; charset=UTF-8"><meta charset="utf-8"><meta http-equiv="X-UA-Compatible" content="IE=edge"><meta name="viewport" content="width=device-width, initial-scale=1, shrink-to-fit=no"><title>MIT License • nowcastr</title><script src="lightswitch.js"></script><script src="deps/jquery-3.6.0/jquery-3.6.0.min.js"></script><meta name="viewport" content="width=device-width, initial-scale=1, shrink-to-fit=no"><link href="deps/bootstrap-5.3.1/bootstrap.min.css" rel="stylesheet"><script src="deps/bootstrap-5.3.1/bootstrap.bundle.min.js"></script><link href="deps/font-awesome-6.5.2/css/all.min.css" rel="stylesheet"><link href="deps/font-awesome-6.5.2/css/v4-shims.min.css" rel="stylesheet"><script src="deps/headroom-0.11.0/headroom.min.js"></script><script src="deps/headroom-0.11.0/jQuery.headroom.min.js"></script><script src="deps/bootstrap-toc-1.0.1/bootstrap-toc.min.js"></script><script src="deps/clipboard.js-2.0.11/clipboard.min.js"></script><script src="deps/search-1.0.0/autocomplete.jquery.min.js"></script><script src="deps/search-1.0.0/fuse.min.js"></script><script src="deps/search-1.0.0/mark.min.js"></script><!-- pkgdown --><script src="pkgdown.js"></script><meta property="og:title" content="MIT License"></head><body>
+<!-- Generated by pkgdown: do not edit by hand --><html lang="en"><head><meta http-equiv="Content-Type" content="text/html; charset=UTF-8"><meta charset="utf-8"><meta http-equiv="X-UA-Compatible" content="IE=edge"><meta name="viewport" content="width=device-width, initial-scale=1, shrink-to-fit=no"><title>MIT License • nowcastr</title><script src="lightswitch.js"></script><script src="deps/jquery-3.6.0/jquery-3.6.0.min.js"></script><meta name="viewport" content="width=device-width, initial-scale=1, shrink-to-fit=no"><link href="deps/bootstrap-5.3.8/bootstrap.min.css" rel="stylesheet"><script src="deps/bootstrap-5.3.8/bootstrap.bundle.min.js"></script><link href="deps/font-awesome-6.5.2/css/all.min.css" rel="stylesheet"><link href="deps/font-awesome-6.5.2/css/v4-shims.min.css" rel="stylesheet"><script src="deps/headroom-0.11.0/headroom.min.js"></script><script src="deps/headroom-0.11.0/jQuery.headroom.min.js"></script><script src="deps/bootstrap-toc-1.0.1/bootstrap-toc.min.js"></script><script src="deps/clipboard.js-2.0.11/clipboard.min.js"></script><script src="deps/search-1.0.0/autocomplete.jquery.min.js"></script><script src="deps/search-1.0.0/fuse.min.js"></script><script src="deps/search-1.0.0/mark.min.js"></script><!-- pkgdown --><script src="pkgdown.js"></script><meta property="og:title" content="MIT License"></head><body>
     <a href="#main" class="visually-hidden-focusable">Skip to contents</a>
 
 
@@ -7,7 +7,7 @@
 
     <a class="navbar-brand me-2" href="index.html">nowcastr</a>
 
-    <small class="nav-text text-muted me-auto" data-bs-toggle="tooltip" data-bs-placement="bottom" title="">0.2.1.9000</small>
+    <small class="nav-text text-muted me-auto" data-bs-toggle="tooltip" data-bs-placement="bottom" title="">0.2.1</small>
 
 
     <button class="navbar-toggler" type="button" data-bs-toggle="collapse" data-bs-target="#navbar" aria-controls="navbar" aria-expanded="false" aria-label="Toggle navigation">

diff --git a/articles/index.html b/articles/index.html
@@ -1,5 +1,5 @@
 <!DOCTYPE html>
-<!-- Generated by pkgdown: do not edit by hand --><html lang="en"><head><meta http-equiv="Content-Type" content="text/html; charset=UTF-8"><meta charset="utf-8"><meta http-equiv="X-UA-Compatible" content="IE=edge"><meta name="viewport" content="width=device-width, initial-scale=1, shrink-to-fit=no"><title>Articles • nowcastr</title><script src="../lightswitch.js"></script><script src="../deps/jquery-3.6.0/jquery-3.6.0.min.js"></script><meta name="viewport" content="width=device-width, initial-scale=1, shrink-to-fit=no"><link href="../deps/bootstrap-5.3.1/bootstrap.min.css" rel="stylesheet"><script src="../deps/bootstrap-5.3.1/bootstrap.bundle.min.js"></script><link href="../deps/font-awesome-6.5.2/css/all.min.css" rel="stylesheet"><link href="../deps/font-awesome-6.5.2/css/v4-shims.min.css" rel="stylesheet"><script src="../deps/headroom-0.11.0/headroom.min.js"></script><script src="../deps/headroom-0.11.0/jQuery.headroom.min.js"></script><script src="../deps/bootstrap-toc-1.0.1/bootstrap-toc.min.js"></script><script src="../deps/clipboard.js-2.0.11/clipboard.min.js"></script><script src="../deps/search-1.0.0/autocomplete.jquery.min.js"></script><script src="../deps/search-1.0.0/fuse.min.js"></script><script src="../deps/search-1.0.0/mark.min.js"></script><!-- pkgdown --><script src="../pkgdown.js"></script><meta property="og:title" content="Articles"></head><body>
+<!-- Generated by pkgdown: do not edit by hand --><html lang="en"><head><meta http-equiv="Content-Type" content="text/html; charset=UTF-8"><meta charset="utf-8"><meta http-equiv="X-UA-Compatible" content="IE=edge"><meta name="viewport" content="width=device-width, initial-scale=1, shrink-to-fit=no"><title>Articles • nowcastr</title><script src="../lightswitch.js"></script><script src="../deps/jquery-3.6.0/jquery-3.6.0.min.js"></script><meta name="viewport" content="width=device-width, initial-scale=1, shrink-to-fit=no"><link href="../deps/bootstrap-5.3.8/bootstrap.min.css" rel="stylesheet"><script src="../deps/bootstrap-5.3.8/bootstrap.bundle.min.js"></script><link href="../deps/font-awesome-6.5.2/css/all.min.css" rel="stylesheet"><link href="../deps/font-awesome-6.5.2/css/v4-shims.min.css" rel="stylesheet"><script src="../deps/headroom-0.11.0/headroom.min.js"></script><script src="../deps/headroom-0.11.0/jQuery.headroom.min.js"></script><script src="../deps/bootstrap-toc-1.0.1/bootstrap-toc.min.js"></script><script src="../deps/clipboard.js-2.0.11/clipboard.min.js"></script><script src="../deps/search-1.0.0/autocomplete.jquery.min.js"></script><script src="../deps/search-1.0.0/fuse.min.js"></script><script src="../deps/search-1.0.0/mark.min.js"></script><!-- pkgdown --><script src="../pkgdown.js"></script><meta property="og:title" content="Articles"></head><body>
     <a href="#main" class="visually-hidden-focusable">Skip to contents</a>
 
 
@@ -7,7 +7,7 @@
 
     <a class="navbar-brand me-2" href="../index.html">nowcastr</a>
 
-    <small class="nav-text text-muted me-auto" data-bs-toggle="tooltip" data-bs-placement="bottom" title="">0.2.1.9000</small>
+    <small class="nav-text text-muted me-auto" data-bs-toggle="tooltip" data-bs-placement="bottom" title="">0.2.1</small>
 
 
     <button class="navbar-toggler" type="button" data-bs-toggle="collapse" data-bs-target="#navbar" aria-controls="navbar" aria-expanded="false" aria-label="Toggle navigation">